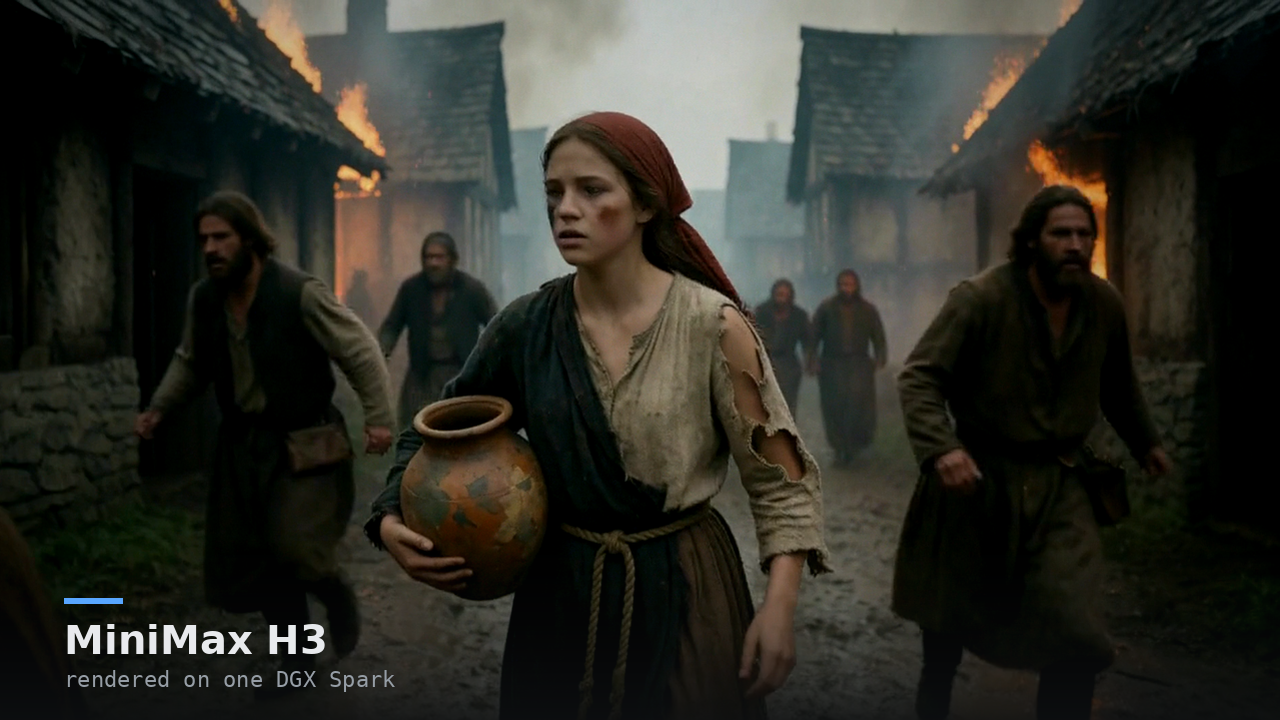
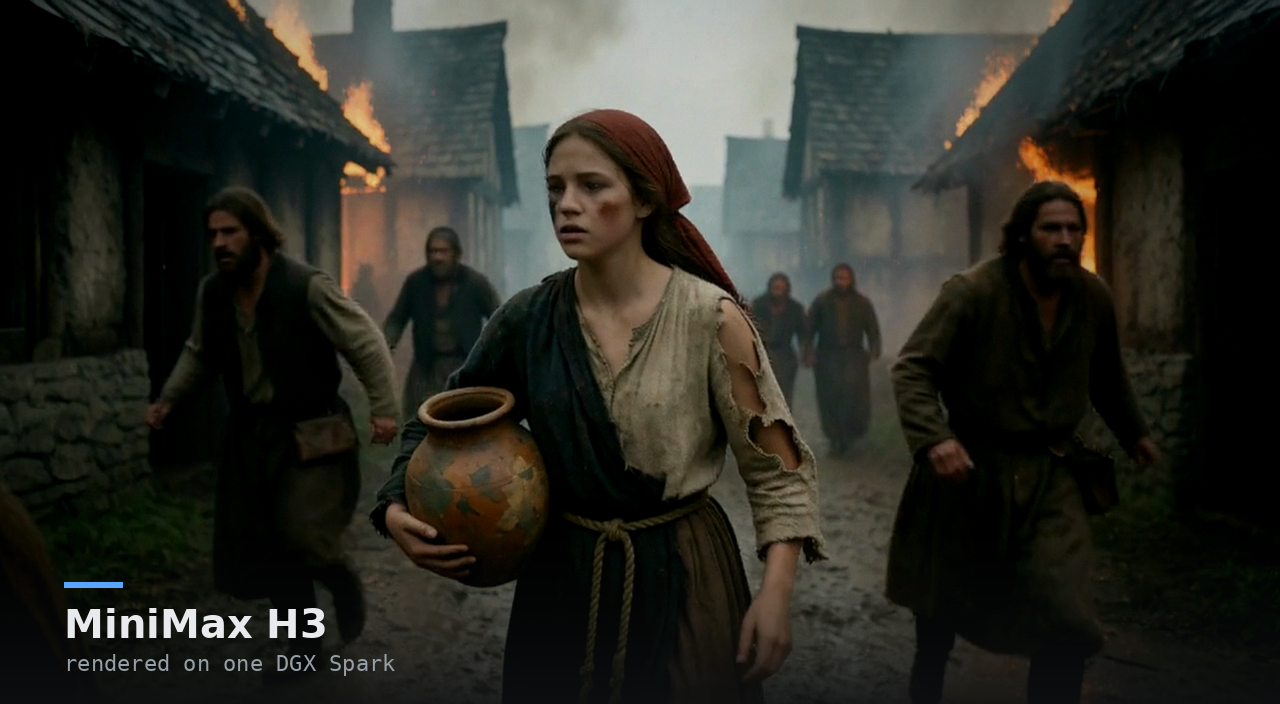
the hero poster carries the teaser's geometry
The poster was 1280x720 and the teaser 1280x704, so the still the
reader sees before the video starts shifted when the video took over.
The poster is now cut at the teaser's own geometry, and the frame is
the video's own framing rather than a crop of it.

diff --git a/scripts/make_assets.py b/scripts/make_assets.py
@@ -271,6 +271,9 @@ def make_poster(frame_path: pathlib.Path, dest: pathlib.Path, title: str, subtit
 TEASER_SOURCE = "FILM-BEACON-1920x1056.mp4"
 TEASER_START = 3.5
 TEASER_LENGTH = 12.0
+# The teaser's own geometry, and the hero poster's: 1920x1056 scaled to 1280 wide.
+TEASER_WIDTH = 1280
+TEASER_HEIGHT = 704
 
 
 def make_teaser(films: pathlib.Path, dest: pathlib.Path) -> None:
@@ -280,7 +283,8 @@ def make_teaser(films: pathlib.Path, dest: pathlib.Path) -> None:
     subprocess.run(
         ["ffmpeg", "-v", "error", "-y",
          "-ss", f"{TEASER_START:.3f}", "-t", f"{TEASER_LENGTH:.3f}", "-i", str(src),
-         "-vf", "scale=1280:704:force_original_aspect_ratio=decrease,pad=1280:704:(ow-iw)/2:(oh-ih)/2",
+         "-vf", f"scale={TEASER_WIDTH}:{TEASER_HEIGHT}:force_original_aspect_ratio=decrease,"
+                f"pad={TEASER_WIDTH}:{TEASER_HEIGHT}:(ow-iw)/2:(oh-ih)/2",
          "-c:v", "libx264", "-preset", "slow", "-crf", "23", "-pix_fmt", "yuv420p",
          "-movflags", "+faststart", "-c:a", "aac", "-b:a", "128k",
          str(dest)],
@@ -351,9 +355,11 @@ def main() -> int:
         hero_src = films / "FILM-BEACON-1920x1056.mp4"
         if hero_src.is_file():
             hero_frame = tmp / "hero.png"
-            grab(hero_src, 6.0, hero_frame)
+            # The poster carries the teaser's geometry exactly, so the still the reader sees
+            # before the video starts is the video's own framing, and nothing shifts.
+            grab(hero_src, 6.0, hero_frame, width=TEASER_WIDTH, height=TEASER_HEIGHT)
             make_poster(hero_frame, ASSETS / "hero-poster.png", "MiniMax H3",
-                        "rendered on one DGX Spark")
+                        "rendered on one DGX Spark", size=(TEASER_WIDTH, TEASER_HEIGHT))
             make_teaser(films, ASSETS / "keel-teaser.mp4")
 
     if args.clips and not args.skip_posters:

diff --git a/assets/README.md b/assets/README.md
@@ -10,7 +10,7 @@ Brand and media for the README.
 | `keel-logo-dark.png` | the wordmark on the dark card, raster |
 | `keel-mark.png` | the square mark, 512×512, transparent |
 | `keel-social-preview.png` | the card a link unfurls into, 1280×640 |
-| `hero-poster.png` | the hero still, 1280×720 |
+| `hero-poster.png` | the hero still, 1280×704 — the teaser's own geometry, so nothing shifts when the video starts |
 | `keel-teaser.mp4` | a 12-second teaser cut from the strongest clip |
 | `posters/` | one poster per clip, 1280×720 |
 
@@ -26,7 +26,9 @@ The brand assets need only Pillow and the DejaVu fonts — they are pure geometr
 identically anywhere. The posters and the teaser need `ffmpeg`, and the films to cut from.
 
 The posters are single frames from the real files, cropped to fill 1280×720 and labelled with a
-scrim. The teaser is 12 seconds of the film that carries the most movement, cut with:
+scrim; the hero poster is the exception, cut at the teaser's own 1280×704 so the still a reader
+sees before the video starts is the video's own framing. The teaser is 12 seconds of the film that
+carries the most movement, cut with:
 
 ```bash
 ffmpeg -ss 3.5 -t 12.0 -i FILM-BEACON-1920x1056.mp4 \
